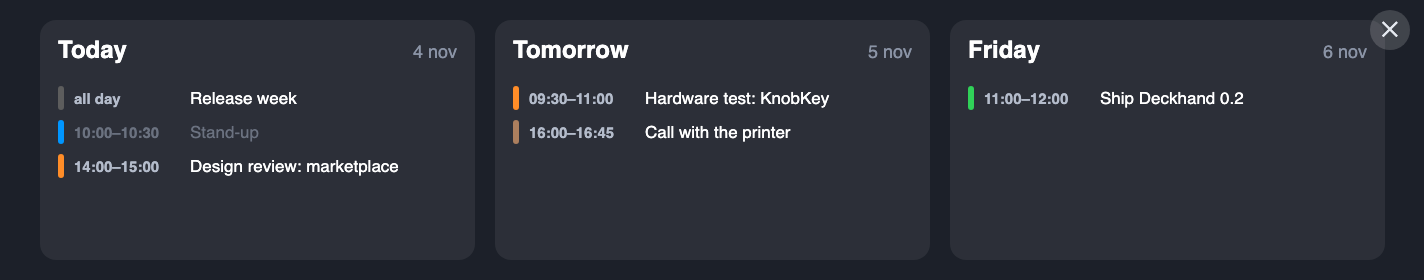
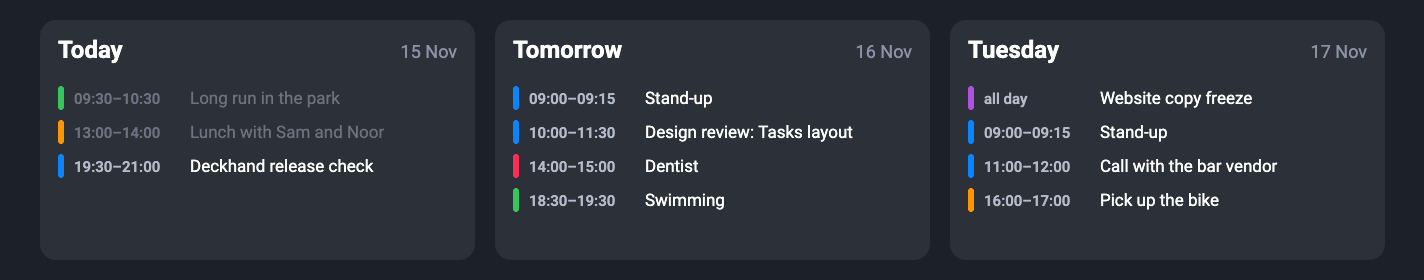
Website: new screenshots for Deckhand 0.5 and bar apps 2.6, Teletekst added
- Mac app: CoreBar and Apps pages in the new design (snapshot mode, demo data, dark).
- Bar apps: all sixteen shots redone at 1424×280 without the old close button, Tasks in the one-column layout, Claude with the new states. Apps that show personal data (Tasks, Claude, Calendar, Whisky Portfolio, Training, Music, Monitor) use made-up sample data; Flights is centred on Schiphol; Weather, Sun & Moon and Tide show Amsterdam. Crypto, Headlines, Schiphol, Haven and Teletekst are real bar captures of public data.
- Teletekst gets its icon, a slide and tab on the home page, and a card on the home and bar apps pages.
- The stale "2.3" version badges on the app cards are gone; the carousel alt texts match the new images; the aisstream key and the pairing key are described as kept in the Keychain (since 0.5).

Claude-Session: https://claude.ai/code/session_01QPp4oLPbSXPWPvjRjY8RUg

diff --git a/UltraWorkspaceMac/site/bar-apps/index.html b/UltraWorkspaceMac/site/bar-apps/index.html
@@ -71,7 +71,7 @@
         <article class="app" id="monitor">
           <div class="icon"><img src="../assets/img/icons/monitor.png" alt=""></div>
           <div class="body">
-            <div class="title"><h3>Monitor</h3><span class="badge">2.3</span></div>
+            <div class="title"><h3>Monitor</h3></div>
             <p>Your Mac, live across the whole bar: CPU with a two-minute history as an area chart, network up and down as sparklines, memory and disk as bars, the host name and the time. Polled once a second.</p>
             <p class="meta">nl.denoronha.deckhand.monitor · the original bar app</p>
           </div>
@@ -80,7 +80,7 @@
         <article class="app" id="claude">
           <div class="icon"><img src="../assets/img/icons/claude.png" alt=""></div>
           <div class="body">
-            <div class="title"><h3>Claude</h3><span class="badge">2.3</span></div>
+            <div class="title"><h3>Claude</h3></div>
             <p>Which terminal needs you. Every Claude Code session on the Mac from the last hour becomes a card with the project, the first prompt and what it last said; the ones waiting for an answer pulse orange, with how long they have waited. Tokens used today in the corner.</p>
             <p class="meta">nl.denoronha.deckhand.claude · reads ~/.claude/projects, nothing leaves the Mac</p>
           </div>
@@ -89,7 +89,7 @@
         <article class="app" id="crypto">
           <div class="icon"><img src="../assets/img/icons/crypto.png" alt=""></div>
           <div class="body">
-            <div class="title"><h3>Crypto</h3><span class="badge">2.3</span></div>
+            <div class="title"><h3>Crypto</h3></div>
             <p>Up to five coins in your currency, each with a sparkline of the day and the change since midnight. Coins and currency are set in Deckhand under Apps → Crypto; prices come from CoinGecko through the Mac, no API key.</p>
             <p class="meta">nl.denoronha.deckhand.crypto</p>
           </div>
@@ -98,7 +98,7 @@
         <article class="app" id="weather">
           <div class="icon"><img src="../assets/img/icons/weather.png" alt=""></div>
           <div class="body">
-            <div class="title"><h3>Weather</h3><span class="badge">2.3</span></div>
+            <div class="title"><h3>Weather</h3></div>
             <p>Now plus three days for the Mac's location: condition, temperature, humidity, wind and the chance of rain, from Open-Meteo. Free, no account, no key, unlike the bar's own AccuWeather card.</p>
             <p class="meta">nl.denoronha.deckhand.weather</p>
           </div>
@@ -107,7 +107,7 @@
         <article class="app" id="music">
           <div class="icon"><img src="../assets/img/icons/music.png" alt=""></div>
           <div class="body">
-            <div class="title"><h3>Music</h3><span class="badge">2.3</span></div>
+            <div class="title"><h3>Music</h3></div>
             <p>Apple Music with album art, title, artist and album, and a level meter while it plays. Previous, play or pause and next work from the bar's touch screen, through the Mac.</p>
             <p class="meta">nl.denoronha.deckhand.music</p>
           </div>
@@ -116,7 +116,7 @@
         <article class="app" id="calendar">
           <div class="icon"><img src="../assets/img/icons/calendar.png" alt=""></div>
           <div class="body">
-            <div class="title"><h3>Calendar</h3><span class="badge">2.3</span></div>
+            <div class="title"><h3>Calendar</h3></div>
             <p>Today, tomorrow and the day after from the Mac's calendars, in the colours you already use. Past events fade; all-day events sit on top. Which calendars show is set in Deckhand under Apps → Calendar.</p>
             <p class="meta">nl.denoronha.deckhand.calendar · asks for Calendar access once</p>
           </div>
@@ -125,7 +125,7 @@
         <article class="app" id="flights">
           <div class="icon"><img src="../assets/img/icons/flights.png" alt=""></div>
           <div class="body">
-            <div class="title"><h3>Flights</h3><span class="badge">2.3</span></div>
+            <div class="title"><h3>Flights</h3></div>
             <p>What is flying over right now. On the left a radar on an OpenStreetMap road map, scaled so the circle is exactly the radius you choose (3 km by default, up to 25); beside it up to four flights, each panel in its own colour — green, amber, blue, pink — and the same colour marks that plane and its flight number on the radar: callsign and airline, the route with both airports, altitude and whether it is climbing, speed, type and registration, distance and direction. Other aircraft in the circle are small grey planes. When the circle is empty it says so and shows the nearest aircraft within 25 km. The map tiles are fetched, darkened and cached by the Mac, so the bar needs no internet for them.</p>
             <p class="meta">nl.denoronha.deckhand.flights · adsb.lol and adsbdb.com, no key · map © OpenStreetMap · scheduled times need a paid API and are not shown</p>
           </div>
@@ -134,7 +134,7 @@
         <article class="app" id="sky">
           <div class="icon"><img src="../assets/img/icons/sky.png" alt=""></div>
           <div class="body">
-            <div class="title"><h3>Sun &amp; Moon</h3><span class="badge">2.3</span></div>
+            <div class="title"><h3>Sun &amp; Moon</h3></div>
             <p>The sun on its arc for today, with sunrise, sunset, solar noon, golden hour, civil dawn and dusk and the day's length; the moon drawn in its real phase, with how much is lit, its age, rise and set, and the dates of the next full and new moon. All computed on the Mac for the weather location.</p>
             <p class="meta">nl.denoronha.deckhand.sky · no service, no key</p>
           </div>
@@ -143,7 +143,7 @@
         <article class="app" id="news">
           <div class="icon"><img src="../assets/img/icons/news.png" alt=""></div>
           <div class="body">
-            <div class="title"><h3>Headlines</h3><span class="badge">2.3</span></div>
+            <div class="title"><h3>Headlines</h3></div>
             <p>Four headlines at a time, rotating every fifteen seconds through the feed's top stories, with how long ago each was published. CNN by default; BBC World, the New York Times, The Guardian, NOS and NU.nl are a setting away.</p>
             <p class="meta">nl.denoronha.deckhand.news · CNN from its text-only front page, the others from RSS; refreshed every ten minutes</p>
           </div>
@@ -152,7 +152,7 @@
         <article class="app" id="verse">
           <div class="icon"><img src="../assets/img/icons/verse.png" alt=""></div>
           <div class="body">
-            <div class="title"><h3>Verse</h3><span class="badge">2.3</span></div>
+            <div class="title"><h3>Verse</h3></div>
             <p>One Bible verse for the day, large and centred, from a list of well-known passages that changes with the date. The World English Bible, which is public domain.</p>
             <p class="meta">nl.denoronha.deckhand.verse · bible-api.com, no key</p>
           </div>
@@ -161,7 +161,7 @@
         <article class="app" id="tasks">
           <div class="icon"><img src="../assets/img/icons/tasks.png" alt=""></div>
           <div class="body">
-            <div class="title"><h3>Tasks</h3><span class="badge">2.3</span></div>
+            <div class="title"><h3>Tasks</h3></div>
             <p>Your open Linear issues: what you have started first, then by priority and due date, each with its state and due day; overdue and due-this-week counts at the top. Tap an issue on the bar and press Done to close it in Linear; the list is refreshed every twenty seconds while the page is open. Needs a personal Linear API key, which Deckhand keeps in a user-only file on the Mac.</p>
             <p class="meta">nl.denoronha.deckhand.tasks · Linear GraphQL API: reads your issues, writes only the Done you press</p>
           </div>
@@ -170,8 +170,8 @@
         <article class="app" id="haven">
           <div class="icon"><img src="../assets/img/icons/haven.png" alt=""></div>
           <div class="body">
-            <div class="title"><h3>Haven</h3><span class="badge">2.3</span></div>
-            <p>Ships at the ports and inland terminals you choose, live from AIS: one card per place with how many are on their way in and how many lie alongside, and the first few by name with a rough arrival time. Tap a place for its approach, a line from the far end to the berth with every arriving ship as a dot at its distance. You choose the places in Deckhand: find one with Apple Maps and set its area and approach on a map; without any, Haven watches the port of Rotterdam. Needs a free aisstream.io key, which Deckhand keeps in a user-only file on the Mac and which never reaches the bar.</p>
+            <div class="title"><h3>Haven</h3></div>
+            <p>Ships at the ports and inland terminals you choose, live from AIS: one card per place with how many are on their way in and how many lie alongside, and the first few by name with a rough arrival time. Tap a place for its approach, a line from the far end to the berth with every arriving ship as a dot at its distance. You choose the places in Deckhand: find one with Apple Maps and set its area and approach on a map; without any, Haven watches the port of Rotterdam. Needs a free aisstream.io key, which Deckhand keeps in the Keychain on the Mac and which never reaches the bar.</p>
             <p class="meta">nl.denoronha.deckhand.haven · aisstream.io AIS stream, held by Deckhand on the Mac</p>
           </div>
           <div class="shot"><img src="../assets/img/screens/bar-haven.png" alt="Haven app on the bar" loading="lazy"></div>
@@ -179,7 +179,7 @@
         <article class="app" id="tide">
           <div class="icon"><img src="../assets/img/icons/tide.png" alt=""></div>
           <div class="body">
-            <div class="title"><h3>Tide</h3><span class="badge">2.3</span></div>
+            <div class="title"><h3>Tide</h3></div>
             <p>Dutch water levels on your bar. Up to four Rijkswaterstaat gauges, each with the level now in cm NAP and which way it is going, today's curve against the predicted tide and the next high and low water, plus a small almanac with sunrise, sunset, day length and the moon. Hoek van Holland, Rotterdam and Nijmegen by default; pick your own gauges under Apps → Tide. Runs on the bar itself from Rijkswaterstaat's open water data; no account, no key.</p>
             <p class="meta">nl.denoronha.deckhand.tide · Rijkswaterstaat water data, fetched by the bar every 10 minutes</p>
           </div>
@@ -188,16 +188,25 @@
         <article class="app" id="schiphol">
           <div class="icon"><img src="../assets/img/icons/schiphol.png" alt=""></div>
           <div class="body">
-            <div class="title"><h3>Schiphol</h3><span class="badge">2.3</span></div>
+            <div class="title"><h3>Schiphol</h3></div>
             <p>Amsterdam Schiphol as the tower sees it: the six runways with the aircraft landing on them and taking off from them, which runways are in use right now and how many movements there were in the last 15 minutes, worked out live from open ADS-B data. Add a free Schiphol Public Flight API key and the next arrivals and departures appear beside it, with gate, delays and the runway of the flight that is on final.</p>
             <p class="meta">nl.denoronha.deckhand.schiphol · adsb.lol and adsbdb, and with your key Schiphol's timetable, fetched by Deckhand on the Mac</p>
           </div>
           <div class="shot"><img src="../assets/img/screens/bar-schiphol.png" alt="Schiphol app on the bar" loading="lazy"></div>
         </article>
+        <article class="app" id="teletekst">
+          <div class="icon"><img src="../assets/img/icons/teletekst.png" alt=""></div>
+          <div class="body">
+            <div class="title"><h3>Teletekst</h3></div>
+            <p>NOS Teletekst as it looks on television: black, the eight teletext colours and the block graphics. The bar is wide and low, so a page is split into two columns, read like a newspaper; a page that is mostly a picture, such as the weather map, is shown whole. The pages turn by themselves, and a tap on the right or left half goes to the next or previous one. By default the news index 101 with every story it lists, sport on 601 and the weather on 702; choose up to eight pages in Deckhand.</p>
+            <p class="meta">nl.denoronha.deckhand.teletekst · teletekst-data.nos.nl, fetched by the bar itself, only while it is open</p>
+          </div>
+          <div class="shot"><img src="../assets/img/screens/bar-teletekst.png" alt="Teletekst app on the bar" loading="lazy"></div>
+        </article>
         <article class="app" id="strava">
           <div class="icon"><img src="../assets/img/icons/strava.png" alt=""></div>
           <div class="body">
-            <div class="title"><h3>Training</h3><span class="badge">2.3</span></div>
+            <div class="title"><h3>Training</h3></div>
             <p>Your own activities on the bar: the latest with its route, the ones before it, this week against last week per sport, and the year so far. Connect once with your own Strava API application; Deckhand keeps the tokens on your Mac and the bar only gets the numbers and the shape of each route. Powered by Strava.</p>
             <p class="meta">nl.denoronha.deckhand.strava · Strava API with your own application, read by Deckhand on the Mac every 12 minutes</p>
           </div>
@@ -206,7 +215,7 @@
         <article class="app" id="cask">
           <div class="icon"><img src="../assets/img/icons/cask.png" alt=""></div>
           <div class="body">
-            <div class="title"><h3>Whisky Portfolio</h3><span class="badge">2.3</span></div>
+            <div class="title"><h3>Whisky Portfolio</h3></div>
             <p>Your whisky collection at auction prices. What your bottles are worth together, against what you paid and a month ago, with a two-year trend per bottle; tap one for its latest auction days and the lots on offer now. Prices from the Whiskystats Data API with your own key, cached on the Mac and refreshed within a strict monthly credit budget. The picture uses demo bottles.</p>
             <p class="meta">nl.denoronha.deckhand.cask · Whiskystats Data API, only the Whisky IDs, asked by Deckhand on the Mac</p>
           </div>

diff --git a/UltraWorkspaceMac/site/index.html b/UltraWorkspaceMac/site/index.html
@@ -53,17 +53,18 @@
         <div class="bar" role="group" aria-label="The CoreBar's 1424 by 280 screen showing Deckhand's bar apps">
           <div class="bar-frame">
             <div class="bar-screen" id="barScreen" role="tabpanel">
-              <img src="assets/img/screens/bar-monitor.png" alt="Monitor app on the bar: CPU 25 %, network up and down, memory and disk bars, a clock" data-page="monitor">
+              <img src="assets/img/screens/bar-monitor.png" alt="Monitor app on the bar: the Mac's CPU history, network up and down, memory and disk, a clock" data-page="monitor">
               <img src="assets/img/screens/bar-haven.png" alt="Haven app: Rotterdam, Antwerpen, Hamburg and Duisburg, ships on their way in and alongside" data-page="haven" hidden>
               <img src="assets/img/screens/bar-tide.png" alt="Tide app: water levels at Hoek van Holland, Rotterdam and Nijmegen against the predicted tide, with sun and moon" data-page="tide" hidden>
               <img src="assets/img/screens/bar-schiphol.png" alt="Schiphol app: the runways in use for landing and take-off, aircraft around the field and the next arrivals and departures" data-page="schiphol" hidden>
+              <img src="assets/img/screens/bar-teletekst.png" alt="Teletekst app: the NOS news index in teletext colours, split into two columns" data-page="teletekst" hidden>
               <img src="assets/img/screens/bar-strava.png" alt="Training app: the latest run with its route, recent activities, this week against last week and the year so far" data-page="strava" hidden>
               <img src="assets/img/screens/bar-cask.png" alt="Whisky Portfolio app: a whisky collection at auction prices, each bottle with its trend" data-page="cask" hidden>
-              <img src="assets/img/screens/bar-claude.png" alt="Claude app: one terminal needs you, four session cards" data-page="claude" hidden>
-              <img src="assets/img/screens/bar-crypto.png" alt="Crypto app: ETH and XRP in euro with a sparkline of the day" data-page="crypto" hidden>
-              <img src="assets/img/screens/bar-weather.png" alt="Weather app: 10 °C partly cloudy and three days ahead" data-page="weather" hidden>
-              <img src="assets/img/screens/bar-music.png" alt="Music app: album art, title, artist and transport buttons" data-page="music" hidden>
-              <img src="assets/img/screens/bar-calendar.png" alt="Calendar app: today, tomorrow and Friday with events" data-page="calendar" hidden>
+              <img src="assets/img/screens/bar-claude.png" alt="Claude app: today's tokens, one session that needs your permission, one running and the rest done or idle" data-page="claude" hidden>
+              <img src="assets/img/screens/bar-crypto.png" alt="Crypto app: ETH, XRP and BTC in euro with a chart of the day" data-page="crypto" hidden>
+              <img src="assets/img/screens/bar-weather.png" alt="Weather app: 7 °C and cloudy in Amsterdam, and three days ahead" data-page="weather" hidden>
+              <img src="assets/img/screens/bar-music.png" alt="Music app: album art, title, artist and the transport buttons" data-page="music" hidden>
+              <img src="assets/img/screens/bar-calendar.png" alt="Calendar app: today, tomorrow and Tuesday with their events" data-page="calendar" hidden>
             </div>
           </div>
           <div class="bar-tabs" role="tablist" aria-label="Bar app">
@@ -71,6 +72,7 @@
             <button role="tab" aria-selected="false" aria-controls="barScreen" data-page="haven">Haven</button>
             <button role="tab" aria-selected="false" aria-controls="barScreen" data-page="tide">Tide</button>
             <button role="tab" aria-selected="false" aria-controls="barScreen" data-page="schiphol">Schiphol</button>
+            <button role="tab" aria-selected="false" aria-controls="barScreen" data-page="teletekst">Teletekst</button>
             <button role="tab" aria-selected="false" aria-controls="barScreen" data-page="strava">Training</button>
             <button role="tab" aria-selected="false" aria-controls="barScreen" data-page="cask">Whisky Portfolio</button>
             <button role="tab" aria-selected="false" aria-controls="barScreen" data-page="claude">Claude</button>
@@ -138,7 +140,7 @@
         <article class="app">
           <div class="icon"><img src="assets/img/icons/monitor.png" alt=""></div>
           <div class="body">
-            <div class="title"><h3>Monitor</h3><span class="badge">2.3</span></div>
+            <div class="title"><h3>Monitor</h3></div>
             <p>Your Mac, live: CPU with a two-minute history, network up and down, memory and disk bars, the time. Refreshed every second.</p>
           </div>
           <div class="shot"><img src="assets/img/screens/bar-monitor.png" alt="Monitor app on the bar" loading="lazy"></div>
@@ -146,7 +148,7 @@
         <article class="app">
           <div class="icon"><img src="assets/img/icons/haven.png" alt=""></div>
           <div class="body">
-            <div class="title"><h3>Haven</h3><span class="badge">2.3</span></div>
+            <div class="title"><h3>Haven</h3></div>
             <p>Ships at the ports and inland terminals you choose, live from AIS: how many are on their way in, how many lie alongside, the first few by name with an arrival time. Tap a place for its approach.</p>
           </div>
           <div class="shot"><img src="assets/img/screens/bar-haven.png" alt="Haven app on the bar" loading="lazy"></div>
@@ -154,7 +156,7 @@
         <article class="app">
           <div class="icon"><img src="assets/img/icons/tide.png" alt=""></div>
           <div class="body">
-            <div class="title"><h3>Tide</h3><span class="badge">2.3</span></div>
+            <div class="title"><h3>Tide</h3></div>
             <p>Dutch water levels from Rijkswaterstaat: up to four gauges with the level now in cm NAP, its trend, today's curve against the predicted tide and the next high and low water, plus sun and moon. Runs on the bar, no key.</p>
           </div>
           <div class="shot"><img src="assets/img/screens/bar-tide.png" alt="Tide app on the bar" loading="lazy"></div>
@@ -162,15 +164,23 @@
         <article class="app">
           <div class="icon"><img src="assets/img/icons/schiphol.png" alt=""></div>
           <div class="body">
-            <div class="title"><h3>Schiphol</h3><span class="badge">2.3</span></div>
+            <div class="title"><h3>Schiphol</h3></div>
             <p>Amsterdam Schiphol as the tower sees it: which runways are in use for landing and take-off, worked out live from open ADS-B data, the aircraft around them and the last 15 minutes' movements. With a free Schiphol key, the next arrivals and departures too.</p>
           </div>
           <div class="shot"><img src="assets/img/screens/bar-schiphol.png" alt="Schiphol app on the bar" loading="lazy"></div>
         </article>
         <article class="app">
+          <div class="icon"><img src="assets/img/icons/teletekst.png" alt=""></div>
+          <div class="body">
+            <div class="title"><h3>Teletekst</h3></div>
+            <p>NOS Teletekst as it looks on television, split into two columns for the wide screen. The pages turn by themselves; tap for the next or previous one. You choose the pages.</p>
+          </div>
+          <div class="shot"><img src="assets/img/screens/bar-teletekst.png" alt="Teletekst app on the bar" loading="lazy"></div>
+        </article>
+        <article class="app">
           <div class="icon"><img src="assets/img/icons/strava.png" alt=""></div>
           <div class="body">
-            <div class="title"><h3>Training</h3><span class="badge">2.3</span></div>
+            <div class="title"><h3>Training</h3></div>
             <p>Your own activities: the latest with its route, the ones before it, this week against last week per sport and the year so far. Connect once with your own Strava API application. Powered by Strava.</p>
           </div>
           <div class="shot"><img src="assets/img/screens/bar-strava.png" alt="Training app on the bar" loading="lazy"></div>
@@ -178,7 +188,7 @@
         <article class="app">
           <div class="icon"><img src="assets/img/icons/cask.png" alt=""></div>
           <div class="body">
-            <div class="title"><h3>Whisky Portfolio</h3><span class="badge">2.3</span></div>
+            <div class="title"><h3>Whisky Portfolio</h3></div>
             <p>Your whisky collection at auction prices: what it is worth together, against what you paid and a month ago, with a trend per bottle. Prices from the Whiskystats Data API with your own key, kept within its monthly credits.</p>
           </div>
           <div class="shot"><img src="assets/img/screens/bar-cask.png" alt="Whisky Portfolio app on the bar" loading="lazy"></div>
@@ -186,7 +196,7 @@
         <article class="app">
           <div class="icon"><img src="assets/img/icons/claude.png" alt=""></div>
           <div class="body">
-            <div class="title"><h3>Claude</h3><span class="badge">2.3</span></div>
+            <div class="title"><h3>Claude</h3></div>
             <p>Which terminal needs you. Every Claude Code session on the Mac becomes a card; the ones waiting for an answer pulse orange, with the project, the question and how long ago.</p>
           </div>
           <div class="shot"><img src="assets/img/screens/bar-claude.png" alt="Claude app on the bar" loading="lazy"></div>
@@ -194,7 +204,7 @@
         <article class="app">
           <div class="icon"><img src="assets/img/icons/crypto.png" alt=""></div>
           <div class="body">
-            <div class="title"><h3>Crypto</h3><span class="badge">2.3</span></div>
+            <div class="title"><h3>Crypto</h3></div>
             <p>Up to five coins in your currency, each with a sparkline of the day and the change since midnight.</p>
           </div>
           <div class="shot"><img src="assets/img/screens/bar-crypto.png" alt="Crypto app on the bar" loading="lazy"></div>
@@ -202,7 +212,7 @@
         <article class="app">
           <div class="icon"><img src="assets/img/icons/weather.png" alt=""></div>
           <div class="body">
-            <div class="title"><h3>Weather</h3><span class="badge">2.3</span></div>
+            <div class="title"><h3>Weather</h3></div>
             <p>Now plus three days for the Mac's location: condition, temperature, humidity, wind and chance of rain.</p>
           </div>
           <div class="shot"><img src="assets/img/screens/bar-weather.png" alt="Weather app on the bar" loading="lazy"></div>
@@ -210,7 +220,7 @@
         <article class="app">
           <div class="icon"><img src="assets/img/icons/music.png" alt=""></div>
           <div class="body">
-            <div class="title"><h3>Music</h3><span class="badge">2.3</span></div>
+            <div class="title"><h3>Music</h3></div>
             <p>Apple Music with album art, title, artist and album. The transport buttons work from the bar's touch screen.</p>
           </div>
           <div class="shot"><img src="assets/img/screens/bar-music.png" alt="Music app on the bar" loading="lazy"></div>
@@ -218,7 +228,7 @@
         <article class="app">
           <div class="icon"><img src="assets/img/icons/calendar.png" alt=""></div>
           <div class="body">
-            <div class="title"><h3>Calendar</h3><span class="badge">2.3</span></div>
+            <div class="title"><h3>Calendar</h3></div>
             <p>Today, tomorrow and the day after from the Mac's calendars, in the colours you already know. Past events fade.</p>
           </div>
           <div class="shot"><img src="assets/img/screens/bar-calendar.png" alt="Calendar app on the bar" loading="lazy"></div>
@@ -239,8 +249,8 @@
         <p class="lede">A sidebar per device, a page per job. Everything the bar shows is drawn on the Mac first, so you see it before you publish it.</p>
       </div>
       <div class="screens">
-        <figure><img src="assets/img/screens/app-corebar.png" width="1600" height="1006" alt="Deckhand's CoreBar page: a preview of the bar's cards, the list of cards to publish, and the pages on the bar" loading="lazy"><figcaption class="meta">CoreBar page · cards and preview</figcaption></figure>
-        <figure><img src="assets/img/screens/app-apps.png" width="1600" height="1006" alt="Deckhand's Apps page: the eleven Deckhand bar apps, the marketplace and the firmware's built-in apps, with the chosen app's switch and settings" loading="lazy"><figcaption class="meta">Apps page · install and update the bar apps</figcaption></figure>
+        <figure><img src="assets/img/screens/app-corebar.png" width="1600" height="1025" alt="Deckhand's CoreBar page: a preview of the bar's cards and the list of cards to publish, with Publish in the toolbar" loading="lazy"><figcaption class="meta">CoreBar page · cards and preview</figcaption></figure>
+        <figure><img src="assets/img/screens/app-apps.png" width="1600" height="1025" alt="Deckhand's Apps page: the seventeen Deckhand bar apps with their versions, then the marketplace and the firmware's apps; on the right the chosen app with its buttons and settings, and Update All in the toolbar" loading="lazy"><figcaption class="meta">Apps page · install and update the bar apps</figcaption></figure>
       </div>
       <div class="hero-actions" style="margin-top:1.5rem">
         <a class="btn" href="deckhand/">Every page, requirements, security and privacy <span class="arrow">→</span></a>

diff --git a/UltraWorkspaceMac/site/deckhand/index.html b/UltraWorkspaceMac/site/deckhand/index.html
@@ -75,8 +75,8 @@
         <p class="lede">A native Mac window: Overview, the bar and its modules, the library and the logs in the sidebar, each page's main action in the toolbar, Activity as an inspector on the right and the app's preferences in Settings (⌘,). Every device page opens with what the device is showing right now, read back from the device rather than assumed, and, only when something is wrong, one sentence and the button that fixes it.</p>
       </div>
       <div class="screens">
-        <figure><img src="../assets/img/screens/app-corebar.png" width="1600" height="1006" alt="Deckhand's CoreBar page: a preview of the bar's cards, the list of cards to publish, and the pages on the bar" loading="lazy"><figcaption class="meta">CoreBar · the page you publish to the bar's screen</figcaption></figure>
-        <figure><img src="../assets/img/screens/app-apps.png" width="1600" height="1006" alt="Deckhand's Apps page: the eleven Deckhand bar apps, the marketplace and the firmware's built-in apps, with the chosen app's Install, Update and Remove buttons and its settings" loading="lazy"><figcaption class="meta">Apps · Deckhand's apps, the marketplace and the firmware's, with the chosen app's buttons and settings</figcaption></figure>
+        <figure><img src="../assets/img/screens/app-corebar.png" width="1600" height="1025" alt="Deckhand's CoreBar page: a preview of the bar's cards and the list of cards to publish, with Publish in the toolbar" loading="lazy"><figcaption class="meta">CoreBar · the page you publish to the bar's screen</figcaption></figure>
+        <figure><img src="../assets/img/screens/app-apps.png" width="1600" height="1025" alt="Deckhand's Apps page: the seventeen Deckhand bar apps with their versions, then the marketplace and the firmware's apps; on the right the chosen app with its buttons and settings, and Update All in the toolbar" loading="lazy"><figcaption class="meta">Apps · Deckhand's apps, the marketplace and the firmware's, with the chosen app's buttons and settings</figcaption></figure>
       </div>
       <div class="grid" style="margin-top:2rem">
         <article class="card">
@@ -122,7 +122,7 @@
       </div>
       <ol class="steps">
         <li><b>Discovery.</b><span>A UDP broadcast on port 5319; the bar answers with its name, serial and launcher version. Behind a VPN or on another subnet, Connect by address does the same with a unicast.</span></li>
-        <li><b>Pairing.</b><span>A one-time approval on the bar's screen. The key it hands out is stored in a user-only file on the Mac and the bar's TLS certificate is pinned, so an impostor on the network cannot reuse it.</span></li>
+        <li><b>Pairing.</b><span>A one-time approval on the bar's screen. The key it hands out is stored in the Keychain on the Mac and the bar's TLS certificate is pinned, so an impostor on the network cannot reuse it.</span></li>
         <li><b>Control.</b><span>TLS on port 7431 for everything the Mac asks the bar: pages, module properties, app installs. A persistent link on the same port answers the bar's own questions, so its Mac cards and the knob work.</span></li>
         <li><b>Uploads.</b><span>HTTP on port 8080 for the cube's card packages and the page assets. The cube fetches its package over its own Wi-Fi; the bar only forwards the command.</span></li>
       </ol>
